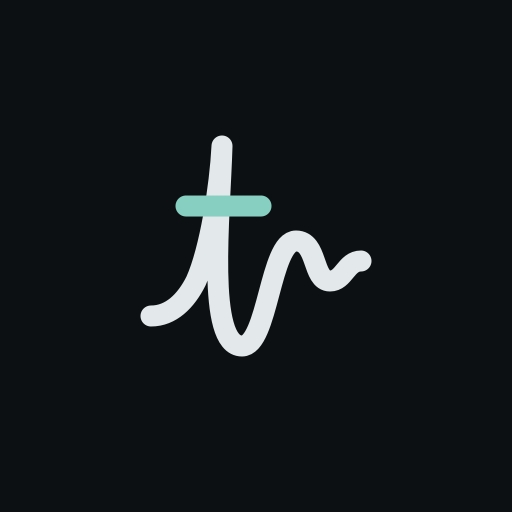
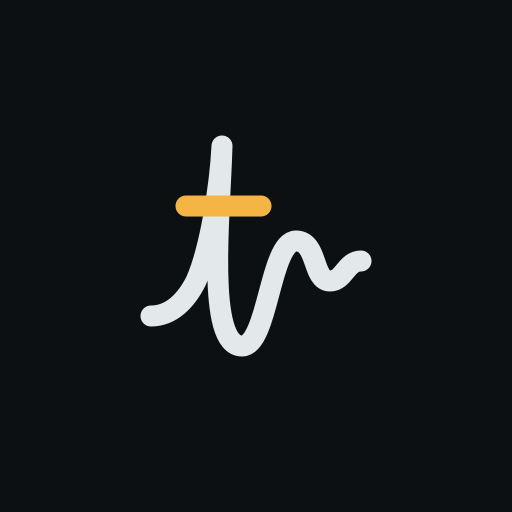
feat: highlight-coloured signature, sticky compact header, 3-column experience
The signature's crossbar now uses the highlight colour (marigold) on the site,
favicon, Apple icon, avatar and link-preview cards. The header sticks to the
top and shrinks slightly once the page is scrolled. Experience reads as year,
designation and brand logo. Playwright and the admin login helper take
BASE_URL so the suite can run while another project holds port 3000.

Changed region(s): [[0.3438, 0.375, 0.5312, 0.4375]]

diff --git a/src/components/SiteHeader.tsx b/src/components/SiteHeader.tsx
@@ -1,5 +1,7 @@
+'use client'
+
 import Link from 'next/link'
-import React from 'react'
+import React, { useEffect, useState } from 'react'
 
 import { Logo } from '@/components/Logo'
 import { container } from '@/components/styles'
@@ -13,26 +15,62 @@ const nav = [
   { label: 'CV', href: '/cv', always: true },
 ]
 
+// The header stays at the top of the page and gets a little smaller once the
+// visitor has scrolled past the hero's first lines.
 export function SiteHeader() {
+  const [compact, setCompact] = useState(false)
+
+  useEffect(() => {
+    let frame = 0
+    const update = () => {
+      frame = 0
+      setCompact(window.scrollY > 48)
+    }
+    const onScroll = () => {
+      if (!frame) frame = requestAnimationFrame(update)
+    }
+    update()
+    window.addEventListener('scroll', onScroll, { passive: true })
+    return () => {
+      window.removeEventListener('scroll', onScroll)
+      cancelAnimationFrame(frame)
+    }
+  }, [])
+
   return (
-    <header className={`${container} flex items-center justify-between py-6 print:hidden`}>
-      <Link className="flex items-center gap-2.5 text-sm font-semibold tracking-tight" href="/">
-        <Logo size={28} />
-        Tanish Raj
-      </Link>
-      <nav aria-label="Main" className="flex items-center gap-5 text-sm text-muted sm:gap-6">
-        {nav.map((item) => (
-          <Link
-            className={`${item.always ? '' : 'hidden sm:inline'} transition-colors hover:text-fg`}
-            href={item.href}
-            key={item.label}
-          >
-            {item.label}
-          </Link>
-        ))}
-        <SpecMode />
-        <ThemeToggle />
-      </nav>
+    <header
+      className={`sticky top-0 z-30 border-b transition-[background-color,border-color,backdrop-filter] duration-300 print:hidden ${
+        compact
+          ? 'border-line bg-bg/85 backdrop-blur-md supports-[backdrop-filter]:bg-bg/70'
+          : 'border-transparent bg-transparent'
+      }`}
+      style={{ top: 'env(safe-area-inset-top, 0px)' }}
+    >
+      <div
+        className={`${container} flex items-center justify-between transition-[padding] duration-300 ${
+          compact ? 'py-3' : 'py-6'
+        }`}
+      >
+        <Link className="flex items-center gap-2.5 text-sm font-semibold tracking-tight" href="/">
+          <span className={`transition-transform duration-300 ${compact ? 'scale-[0.8]' : ''}`}>
+            <Logo size={28} />
+          </span>
+          Tanish Raj
+        </Link>
+        <nav aria-label="Main" className="flex items-center gap-5 text-sm text-muted sm:gap-6">
+          {nav.map((item) => (
+            <Link
+              className={`${item.always ? '' : 'hidden sm:inline'} transition-colors hover:text-fg`}
+              href={item.href}
+              key={item.label}
+            >
+              {item.label}
+            </Link>
+          ))}
+          <SpecMode />
+          <ThemeToggle />
+        </nav>
+      </div>
     </header>
   )
 }

diff --git a/src/app/(frontend)/page.tsx b/src/app/(frontend)/page.tsx
@@ -189,17 +189,17 @@ export default function HomePage() {
             {experience.map((job) => {
               const inner = (
                 <>
-                  <span className="font-mono text-[11px] text-muted tabular-nums">{job.years}</span>
-                  <span className="min-w-0">
-                    <span className="inline-flex items-center align-middle transition-colors group-hover:text-highlight">
-                      <BrandLogo label={job.company} name={job.logo} scale={0.8} />
-                    </span>
-                    <span className="ml-2 text-muted">· {job.role}</span>
+                  <span className="font-mono text-[13px] text-muted tabular-nums">{job.years}</span>
+                  <span className="text-base transition-colors group-hover:text-highlight">
+                    {job.role}
+                  </span>
+                  <span className="flex items-center sm:justify-end">
+                    <BrandLogo label={job.company} name={job.logo} scale={0.8} />
                   </span>
                 </>
               )
               const row =
-                'grid gap-x-5 gap-y-1 py-4 text-base sm:grid-cols-[7rem_minmax(0,1fr)] sm:items-baseline'
+                'grid gap-x-6 gap-y-2 py-4 sm:grid-cols-[8rem_minmax(0,1fr)_12rem] sm:items-center'
               return (
                 <li className="border-b border-line" key={`${job.company}-${job.years}`}>
                   {job.study ? (

diff --git a/playwright.config.ts b/playwright.config.ts
@@ -9,6 +9,9 @@ import 'dotenv/config'
 /**
  * See https://playwright.dev/docs/test-configuration.
  */
+// Override with BASE_URL when another project holds port 3000.
+const baseURL = process.env.BASE_URL ?? 'http://localhost:3000'
+
 export default defineConfig({
   testDir: './tests/e2e',
   /* Fail the build on CI if you accidentally left test.only in the source code. */
@@ -22,7 +25,7 @@ export default defineConfig({
   /* Shared settings for all the projects below. See https://playwright.dev/docs/api/class-testoptions. */
   use: {
     /* Base URL to use in actions like `await page.goto('/')`. */
-    baseURL: 'http://localhost:3000',
+    baseURL,
 
     /* Collect trace when retrying the failed test. See https://playwright.dev/docs/trace-viewer */
     trace: 'on-first-retry',
@@ -37,6 +40,6 @@ export default defineConfig({
     // CI tests the production build; locally, reuse the running dev server.
     command: process.env.CI ? 'pnpm start' : 'pnpm dev',
     reuseExistingServer: true,
-    url: 'http://localhost:3000',
+    url: baseURL,
   },
 })

diff --git a/src/brand/og.tsx b/src/brand/og.tsx
@@ -51,7 +51,7 @@ export async function renderCard({
             strokeLinejoin="round"
             strokeWidth="2"
           />
-          <path d={signature.crossbar} stroke="#86cfc1" strokeLinecap="round" strokeWidth="2" />
+          <path d={signature.crossbar} stroke="#f5b544" strokeLinecap="round" strokeWidth="2" />
         </svg>
         <span style={{ fontSize: 28, fontWeight: 400 }}>Tanish Raj</span>
       </div>

diff --git a/tests/helpers/login.ts b/tests/helpers/login.ts
@@ -15,7 +15,7 @@ export interface LoginOptions {
  */
 export async function login({
   page,
-  serverURL = 'http://localhost:3000',
+  serverURL = process.env.BASE_URL ?? 'http://localhost:3000',
   user,
 }: LoginOptions): Promise<void> {
   await page.goto(`${serverURL}/admin/login`, { waitUntil: 'domcontentloaded' })

diff --git a/src/components/Logo.tsx b/src/components/Logo.tsx
@@ -26,7 +26,7 @@ export function Logo({ size = 24, className = '' }: Props) {
         className="signature-crossbar"
         d={signature.crossbar}
         pathLength={1}
-        stroke="var(--accent)"
+        stroke="var(--highlight)"
       />
     </svg>
   )

diff --git a/src/app/(frontend)/globals.css b/src/app/(frontend)/globals.css
@@ -152,7 +152,7 @@
   }
 }
 
-/* The signature writes itself once, then the crossbar is struck through. */
+/* The signature writes itself once, then the highlight crossbar is struck through. */
 @keyframes write {
   from {
     stroke-dashoffset: 1;
